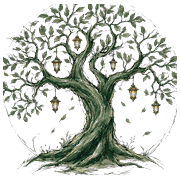
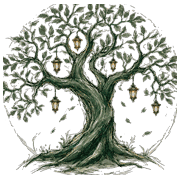
Firefly swarms replace the strung lanterns; bolder small-size mark
Swarms: each is a centre wandering a slow Lissajous path with its flies placed
on a sphere around it, so depth drives size and brightness and the cluster
reads as a ball with volume rather than a flat ring. The blink is deliberately
gentler than a lone firefly's - if most of a swarm is dark at any instant the
ball shape never resolves.

The strung vector lanterns are gone: once the drawn tree carried its own, ones
hanging above it read as two illustrations sharing a page.

Icons: the drawing is thickened and its faint ink lifted before scaling, since
watercolour hairlines disappear at 16-38px. A solid silhouette was tried first
and was worse - closing the leaf gaps turns the canopy into a blob.

diff --git a/components/FireflySwarm.tsx b/components/FireflySwarm.tsx
@@ -1,0 +1,177 @@
+'use client';
+
+import { useEffect, useRef } from 'react';
+
+/**
+ * Swarms of fireflies that orbit as a loose ball and drift across the band.
+ *
+ * These replaced the strung lanterns at the top of the hero (2026-09-03). The
+ * drawn tree now carries the lanterns, so hanging vector ones above it read as
+ * two illustrations sharing a page.
+ *
+ * Each swarm is a centre that wanders on a slow Lissajous path, with its flies
+ * placed on a *sphere* around it — two angles, and the depth term drives size
+ * and brightness. That is what makes it read as a ball with volume rather than
+ * a flat ring: the ones at the back are small and dim, the ones at the front
+ * near and bright, and they trade places as the ball turns.
+ *
+ * Physics is inverted by theme for the same reason as `Fireflies`: additive
+ * glow is invisible against cream, so daylight paints dark specks instead.
+ */
+type Swarm = {
+  /** home centre, 0-1 of the container */
+  hx: number;
+  hy: number;
+  /** drift amplitude, 0-1 */
+  dx: number;
+  dy: number;
+  /** drift speed */
+  sx: number;
+  sy: number;
+  /** ball radius in px, and how many flies in it */
+  r: number;
+  n: number;
+  phase: number;
+};
+
+const SWARMS: Swarm[] = [
+  { hx: 0.10, hy: 0.30, dx: 0.035, dy: 0.10, sx: 0.000062, sy: 0.000048, r: 40, n: 18, phase: 0.0 },
+  { hx: 0.25, hy: 0.17, dx: 0.028, dy: 0.085, sx: 0.000049, sy: 0.000067, r: 30, n: 14, phase: 1.7 },
+  { hx: 0.44, hy: 0.36, dx: 0.04, dy: 0.11, sx: 0.000071, sy: 0.000041, r: 26, n: 12, phase: 3.1 },
+  { hx: 0.63, hy: 0.19, dx: 0.03, dy: 0.09, sx: 0.000044, sy: 0.000059, r: 34, n: 16, phase: 4.4 },
+  { hx: 0.79, hy: 0.40, dx: 0.037, dy: 0.075, sx: 0.000058, sy: 0.000052, r: 28, n: 13, phase: 2.3 },
+];
+
+const MOTE = [
+  [54, 86, 15],
+  [74, 118, 29],
+  [143, 77, 0],
+  [10, 46, 18],
+];
+
+export function FireflySwarm({ className = '' }: { className?: string }) {
+  const canvas = useRef<HTMLCanvasElement>(null);
+
+  useEffect(() => {
+    const el = canvas.current;
+    if (!el) return;
+    const ctx = el.getContext('2d');
+    if (!ctx) return;
+
+    const reduced = window.matchMedia('(prefers-reduced-motion: reduce)').matches;
+
+    // flatten the swarms into flies once, so the frame loop allocates nothing
+    const flies = SWARMS.flatMap((s, si) =>
+      Array.from({ length: s.n }, (_, i) => ({
+        s,
+        // two orbit speeds that are not simple multiples of each other, or the
+        // ball pulses in step instead of churning
+        ta: 0.00042 + ((i * 17 + si * 5) % 9) * 0.00006,
+        tb: 0.00029 + ((i * 11 + si * 3) % 7) * 0.00005,
+        pa: ((i * 2.399 + si) % (Math.PI * 2)),
+        pb: ((i * 1.111 + si * 2.2) % (Math.PI * 2)),
+        rj: 0.68 + ((i * 13) % 5) * 0.09,
+        size: 0.9 + ((i * 7) % 4) * 0.22,
+        period: 3600 + ((i * 811 + si * 397) % 3400),
+        offset: (i * 1231 + si * 733) % 3600,
+        moteIdx: (i + si) % 4,
+      }))
+    );
+
+    const root = document.documentElement;
+    let dark = root.classList.contains('dark');
+    const mo = new MutationObserver(() => {
+      dark = root.classList.contains('dark');
+    });
+    mo.observe(root, { attributes: true, attributeFilter: ['class'] });
+
+    let w = 0, h = 0, raf = 0;
+    const resize = () => {
+      const r = el.getBoundingClientRect();
+      const dpr = Math.min(window.devicePixelRatio || 1, 2);
+      w = r.width; h = r.height;
+      if (!w || !h) return;
+      el.width = Math.round(w * dpr);
+      el.height = Math.round(h * dpr);
+      ctx.setTransform(dpr, 0, 0, dpr, 0, 0);
+    };
+    resize();
+    const ro = new ResizeObserver(resize);
+    ro.observe(el);
+
+    const frame = (now: number) => {
+      raf = requestAnimationFrame(frame);
+      if (!el.offsetParent || !w || !h) return;
+      ctx.clearRect(0, 0, w, h);
+      ctx.globalCompositeOperation = dark ? 'lighter' : 'source-over';
+
+      for (const f of flies) {
+        const s = f.s;
+        const cx = (s.hx + Math.sin(now * s.sx + s.phase) * s.dx) * w;
+        const cy = (s.hy + Math.cos(now * s.sy + s.phase * 1.3) * s.dy) * h;
+
+        const th = now * f.ta + f.pa;
+        const ph = now * f.tb + f.pb;
+        const rr = s.r * f.rj;
+        const x = cx + rr * Math.sin(ph) * Math.cos(th);
+        // squashed vertically so a ball reads as a ball in a wide band
+        const y = cy + rr * Math.sin(ph) * Math.sin(th) * 0.72;
+        // depth: -1 at the back, +1 at the front
+        const depth = (Math.cos(ph) + 1) / 2;
+        const near = 0.45 + depth * 0.55;
+
+        const t = ((now + f.offset) % f.period) / f.period;
+
+        if (dark) {
+          // Gentler than a lone firefly's blink on purpose: a swarm has to
+          // read as a *ball*, and if most of them are dark at any instant the
+          // shape never resolves. So they stay dimly lit and swell, rather
+          // than winking fully out.
+          const lit = (reduced ? 0.45 : 0.3 + 0.7 * Math.pow(Math.sin(t * Math.PI), 2)) * near;
+          if (lit < 0.012) continue;
+          const size = f.size * near;
+          const glow = size * 8;
+          const g = ctx.createRadialGradient(x, y, 0, x, y, glow);
+          g.addColorStop(0, `rgba(255,236,170,${0.46 * lit})`);
+          g.addColorStop(0.4, `rgba(247,192,74,${0.14 * lit})`);
+          g.addColorStop(1, 'rgba(247,192,74,0)');
+          ctx.fillStyle = g;
+          ctx.beginPath();
+          ctx.arc(x, y, glow, 0, Math.PI * 2);
+          ctx.fill();
+          ctx.fillStyle = `rgba(255,247,214,${0.8 * lit})`;
+          ctx.beginPath();
+          ctx.arc(x, y, size, 0, Math.PI * 2);
+          ctx.fill();
+        } else {
+          const lit = (reduced ? 0.7 : 0.6 + 0.4 * Math.sin(t * Math.PI * 2)) * near;
+          const [r, g2, b2] = MOTE[f.moteIdx];
+          const size = f.size * 1.25 * near;
+          const halo = size * 5.5;
+          const grad = ctx.createRadialGradient(x, y, 0, x, y, halo);
+          grad.addColorStop(0, `rgba(${r},${g2},${b2},${0.2 * lit})`);
+          grad.addColorStop(1, `rgba(${r},${g2},${b2},0)`);
+          ctx.fillStyle = grad;
+          ctx.beginPath();
+          ctx.arc(x, y, halo, 0, Math.PI * 2);
+          ctx.fill();
+          ctx.fillStyle = `rgba(${r},${g2},${b2},${0.5 * lit})`;
+          ctx.beginPath();
+          ctx.arc(x, y, size, 0, Math.PI * 2);
+          ctx.fill();
+        }
+      }
+
+      ctx.globalCompositeOperation = 'source-over';
+    };
+
+    raf = requestAnimationFrame(frame);
+    return () => {
+      cancelAnimationFrame(raf);
+      ro.disconnect();
+      mo.disconnect();
+    };
+  }, []);
+
+  return <canvas ref={canvas} aria-hidden="true" className={`pointer-events-none ${className}`} />;
+}

diff --git a/components/Hero.tsx b/components/Hero.tsx
@@ -2,18 +2,9 @@
 
 import { motion, useScroll, useTransform } from 'framer-motion';
 import { useRef } from 'react';
-import { HangingLantern } from './MoonLantern';
+import { FireflySwarm } from './FireflySwarm';
 import { TreeCanopy } from './TreeCanopy';
 
-/** Lanterns strung across the top of the hero, at hand-picked offsets. */
-const strung = [
-  { left: '7%', cord: 239, size: 44, sway: 7, delay: 0, reach: 6.5 },
-  { left: '19%', cord: 276, size: 58, sway: 9, delay: 1.4, reach: 7 },
-  { left: '40%', cord: 294, size: 34, sway: 6.5, delay: 0.6, reach: 5.5 },
-  { left: '60%', cord: 462, size: 40, sway: 8, delay: 2.1, reach: 6 },
-  { left: '77%', cord: 190, size: 62, sway: 6, delay: 0.3, reach: 7.5 },
-  { left: '90%', cord: 539, size: 38, sway: 9.5, delay: 1.1, reach: 6 },
-];
 
 
 export function Hero() {
@@ -47,11 +38,9 @@ export function Hero() {
           treeClassName="opacity-[0.3] dark:opacity-[0.62]"
         />
 
-        <div className="absolute inset-x-0 top-0 h-[52vh] hidden sm:block pointer-events-none">
-          {strung.map((l, i) => (
-            <HangingLantern key={l.left} uid={`hero${i}`} {...l} />
-          ))}
-        </div>
+        {/* Swarms of fireflies where the strung lanterns used to be — the
+            drawn tree carries the lanterns now. */}
+        <FireflySwarm className="absolute inset-x-0 top-0 hidden h-[56vh] w-full sm:block" />
       </div>
 
       <motion.div

diff --git a/CLAUDE.md b/CLAUDE.md
@@ -263,8 +263,21 @@ Overhauled 2026-09-01 on a type recommendation Andy commissioned.
   carried a hard horizontal seam across it, visible as a rectangle once you
   brightened the page. Any glow layer must reach fully transparent *inside* its
   own box: centred `closest-side` radials are safe, edge-anchored ones are not.
-- `components/Fireflies.tsx` — points of life around the canopy, themed to the
-  time of day. Same positions and drift in both, **opposite physics**:
+- `components/FireflySwarm.tsx` — swarms of fireflies orbiting as a ball,
+  across the top of the hero. **They replaced the strung `<HangingLantern>`
+  row on 2026-09-03**: once the drawn tree carried its own lanterns, vector
+  ones hanging above it read as two illustrations sharing a page.
+  - Each swarm is a centre wandering a slow Lissajous path with its flies on a
+    *sphere* around it — two angles, and the depth term drives size and
+    brightness. That is what gives it volume: the ones at the back are small
+    and dim and they trade places as the ball turns. A flat ring looks like a
+    ring.
+  - ⚠ The blink is **gentler than `Fireflies`** on purpose (`0.3 + 0.7·sin²`
+    rather than `sin⁴`). A lone firefly should be dark more often than lit, but
+    if most of a swarm is dark at any instant the ball never resolves as a
+    shape. Don't "fix" this to match.
+- `components/Fireflies.tsx` — single points of life around the canopy, themed
+  to the time of day. Same positions and drift in both, **opposite physics**:
   - **Dark — fireflies.** Additive (`lighter`) warm glow, blink shaped by
     `pow(sin, 6)` so they are dark far more often than lit. That asymmetry is
     what sells them; a steady twinkle reads as fairy lights.
@@ -357,6 +370,13 @@ The pipeline that produces the assets, all from one source image:
   trunk and the ground wash register as lanterns.
 - The mark needs **no dark-mode filter**: the mid-green leaves read on both
   grounds as they are.
+- ⚠ **The small sizes get a boldened variant**, not the raw drawing: strokes
+  dilated and faint ink lifted (`MaxFilter(3)`, alpha gamma 0.72, brightness
+  0.92) before scaling. Watercolour hairlines vanish at 16-38px otherwise.
+  A **solid silhouette was tried first and was worse** — closing the gaps
+  between leaves merges the canopy into a blob and loses the tree entirely.
+  Be honest about the ceiling here: a drawing this detailed will never be crisp
+  at 16px, and a purpose-drawn simple mark is the real fix if it ever matters.
 
 ### Logo (previous artwork)
 
